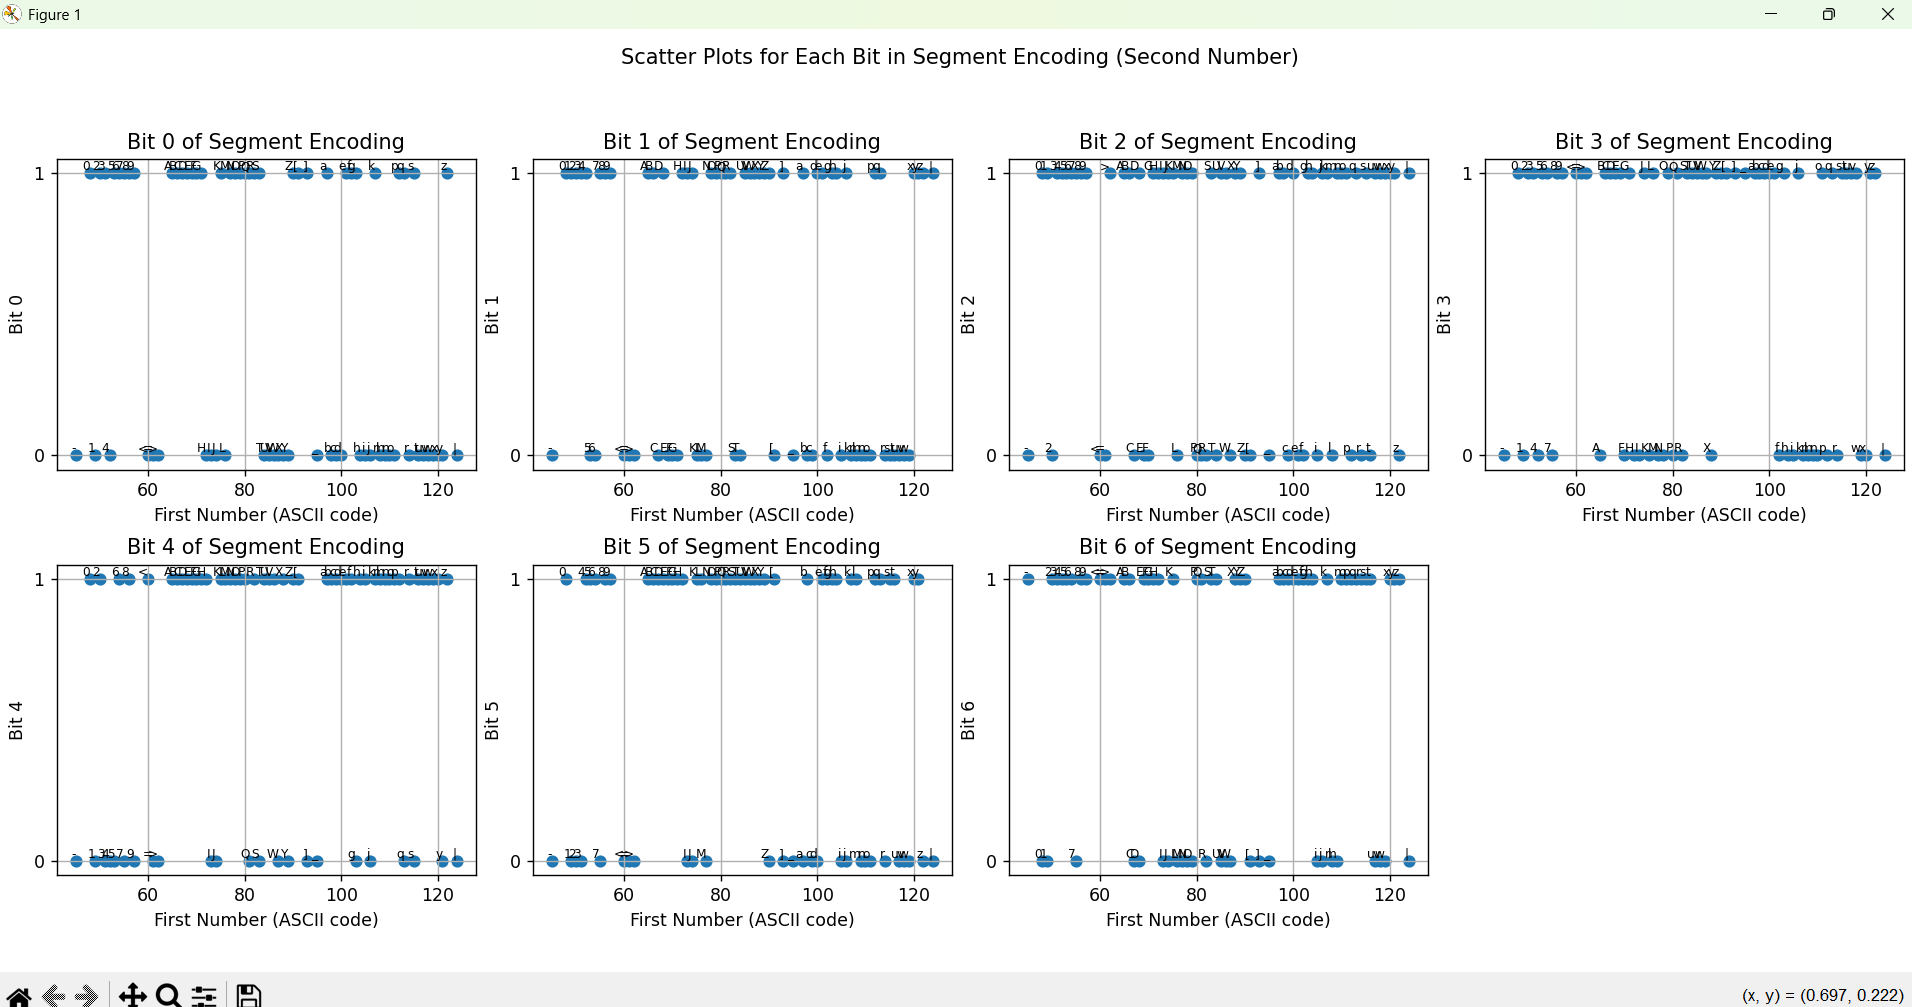
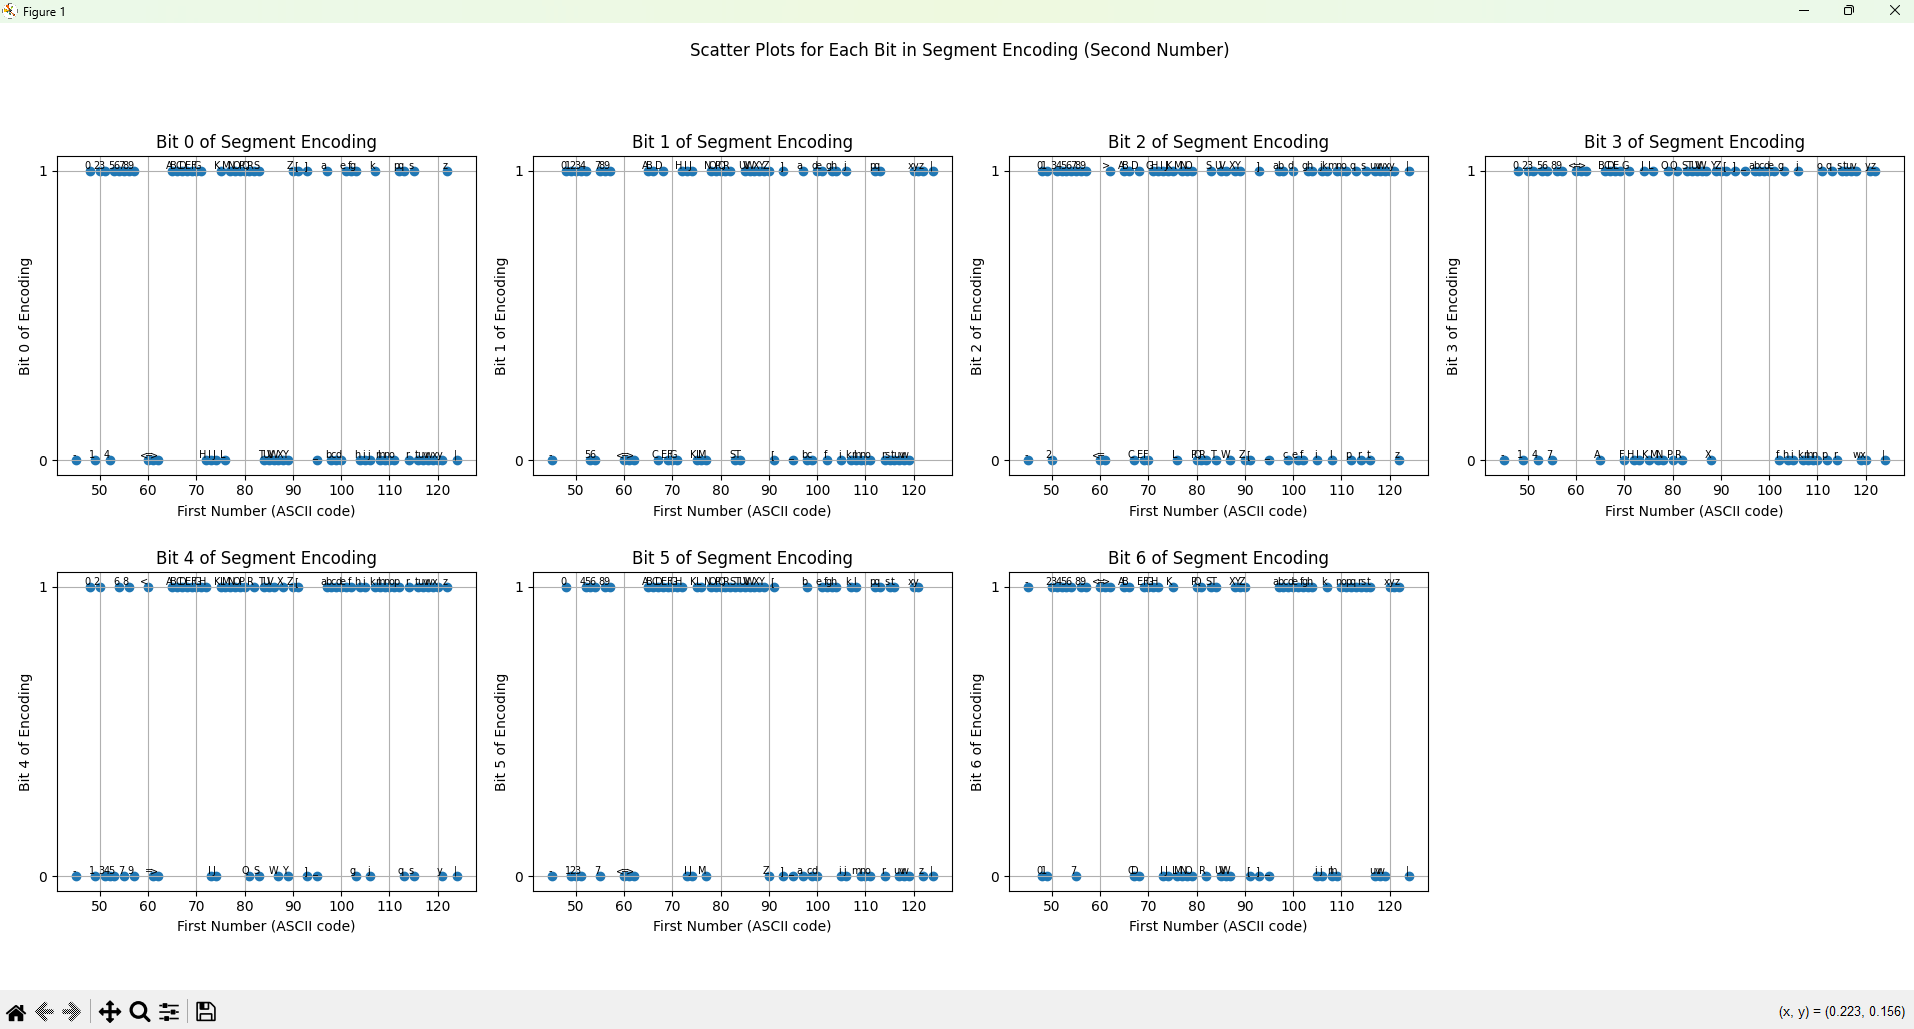
:pick: :monocle_face: Slightly clearer scatter plots :bar_chart:

diff --git a/scripts/plot_encodings.py b/scripts/plot_encodings.py
@@ -25,10 +25,10 @@ plt.scatter(x_vals, y_vals)
 
 # Add labels to each point
 for i, txt in enumerate(labels):
-    plt.annotate(txt, (x_vals[i], y_vals[i]), fontsize=8, ha='right', va='bottom')
+    plt.annotate(txt, (x_vals[i], y_vals[i]), fontsize=15, ha='right', va='bottom')
 
-plt.xlabel('First Number')
-plt.ylabel('Second Number')
+plt.xlabel('ASCII Character')
+plt.ylabel('Encoding as a Byte')
 plt.title('ASCII 7-Segment Encodings Scatter Plot')
 plt.grid(True)
 plt.tight_layout()
@@ -44,7 +44,7 @@ for bit in range(7):
     for i, txt in enumerate(labels):
         ax.annotate(txt, (x_vals[i], y_bit[i]), fontsize=7, ha='right', va='bottom')
     ax.set_xlabel('First Number (ASCII code)')
-    ax.set_ylabel(f'Bit {bit}')
+    ax.set_ylabel(f'Bit {bit} of Encoding')
     ax.set_title(f'Bit {bit} of Segment Encoding')
     ax.set_yticks([0, 1])
     ax.grid(True)
